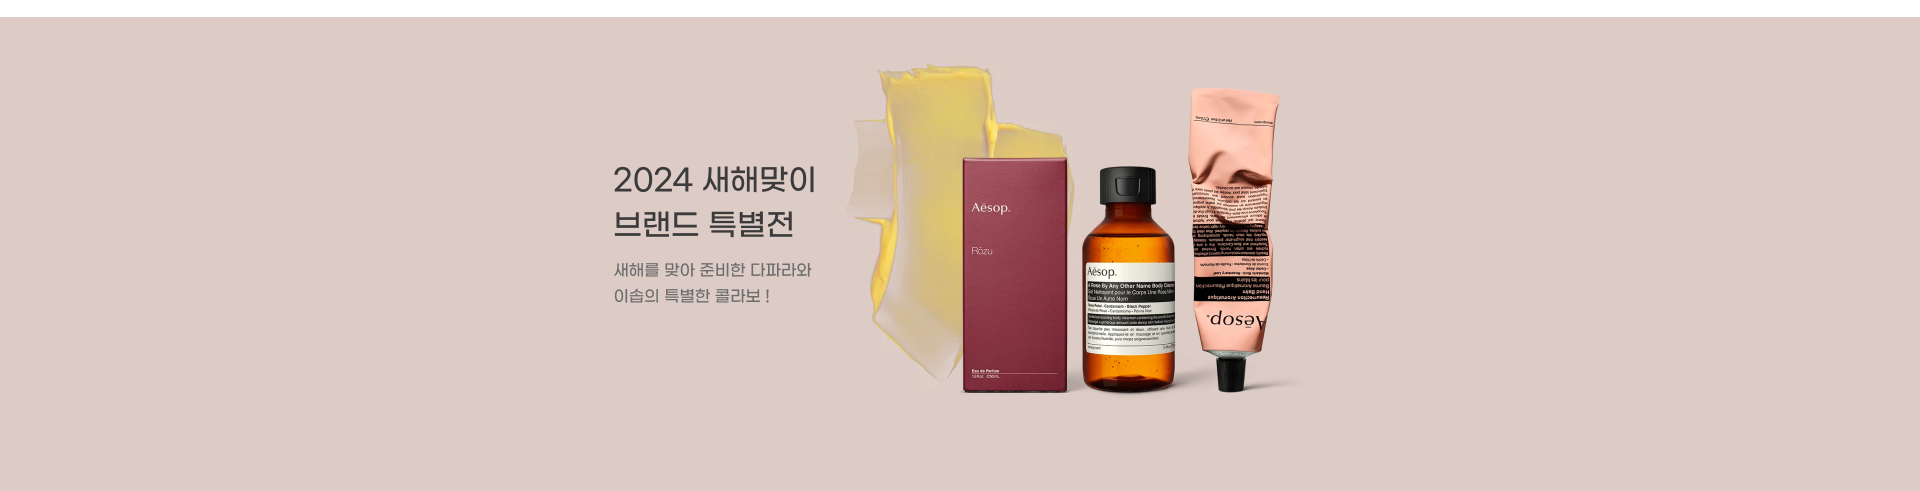
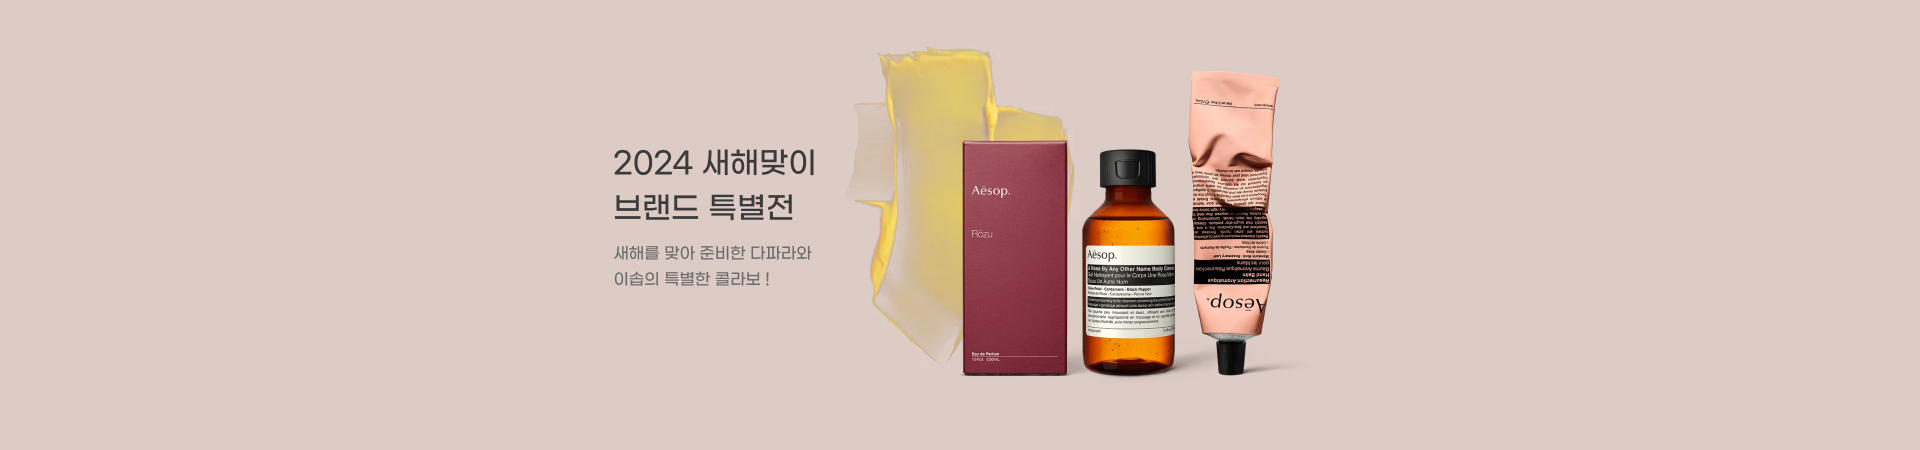
시맨틱 체크

diff --git a/css/index.css b/css/index.css
@@ -1,108 +1,16 @@
-@font-face {
-  font-family: "GmarketSansMedium";
-  src: url("../fonts/GmarketSansTTFMedium.ttf") format("woff");
-  font-weight: normal;
-  font-style: normal;
-}
-@font-face {
-  font-family: "GmarketSansBold";
-  src: url("../fonts/GmarketSansTTFBold.ttf") format("woff");
-  font-weight: normal;
-  font-style: normal;
-}
-@font-face {
-  font-family: "GmarketSansLight";
-  src: url("../fonts/GmarketSansTTFLight.ttf") format("woff");
-  font-weight: normal;
-  font-style: normal;
-}
-* {
-  box-sizing: border-box;
-  font-family: GmarketSansMedium;
-}
-
-body {
-  font-family: gmarketSansMedium;
-}
-
-a {
-  all: unset;
-  cursor: pointer;
-}
-
-.between {
-  display: flex;
-  justify-content: space-between;
-}
-
-.center {
-  display: flex;
-  align-items: center;
-}
-
-.width {
-  width: 100%;
-  max-width: 1280px;
-  margin: 0 auto;
-}
-
-.gap20 {
-  gap: 20px;
-}
-
-.flicking-camera {
-  display: flex;
-  align-items: center;
-}
-
-.panel {
-  width: 100%;
-  display: flex;
-  flex-direction: column;
-  align-items: center;
-  justify-content: space-between;
-}
-.panel a {
-  display: flex;
-  align-items: center;
-  justify-content: center;
-  -webkit-user-drag: none;
-}
-.panel img {
-  cursor: pointer;
-  -webkit-user-drag: none;
-}
-
-.flicking-pagination {
-  display: flex;
-  align-items: center;
-  justify-content: center;
-  gap: 10px;
-}
-
-.flicking-pagination-bullet {
-  width: 8px;
-  height: 8px;
-  border-radius: 100%;
-  background-color: #808080;
-}
-
-.flicking-pagination-bullet-active {
-  display: block;
-  width: 20px;
-  height: 8px;
-  border-radius: 10px;
-  background-color: #c43663;
-}
-
 .banner {
   width: 100%;
   max-width: 1920px;
   margin: 0 auto;
 }
 .banner .flicking-viewport {
-  width: 1280px;
+  width: 100%;
+  aspect-ratio: 128/50;
+  min-height: 500px;
   margin: 0 auto;
+}
+.banner .panel {
+  overflow: hidden;
 }
 .banner img {
   height: 100%;

diff --git a/css/header.css b/css/header.css
@@ -55,17 +55,12 @@ a {
   align-items: center;
 }
 
-.flicking-viewport {
-  width: 100%;
-  overflow: hidden;
-}
-
 .panel {
   width: 100%;
+  height: 100%;
   display: flex;
   flex-direction: column;
   align-items: center;
-  justify-content: space-between;
 }
 .panel a {
   display: flex;
@@ -74,31 +69,8 @@ a {
   -webkit-user-drag: none;
 }
 .panel img {
-  width: 100%;
   cursor: pointer;
   -webkit-user-drag: none;
-}
-
-.flicking-pagination {
-  display: flex;
-  align-items: center;
-  justify-content: center;
-  gap: 10px;
-}
-
-.flicking-pagination-bullet {
-  width: 8px;
-  height: 8px;
-  border-radius: 100%;
-  background-color: #808080;
-}
-
-.flicking-pagination-bullet-active {
-  display: block;
-  width: 20px;
-  height: 8px;
-  border-radius: 10px;
-  background-color: #c43663;
 }
 
 .material-symbols-outlined {

diff --git a/css/root.css b/css/root.css
@@ -57,10 +57,10 @@ a {
 
 .panel {
   width: 100%;
+  height: 100%;
   display: flex;
   flex-direction: column;
   align-items: center;
-  justify-content: space-between;
 }
 .panel a {
   display: flex;
@@ -71,26 +71,4 @@ a {
 .panel img {
   cursor: pointer;
   -webkit-user-drag: none;
-}
-
-.flicking-pagination {
-  display: flex;
-  align-items: center;
-  justify-content: center;
-  gap: 10px;
-}
-
-.flicking-pagination-bullet {
-  width: 8px;
-  height: 8px;
-  border-radius: 100%;
-  background-color: #808080;
-}
-
-.flicking-pagination-bullet-active {
-  display: block;
-  width: 20px;
-  height: 8px;
-  border-radius: 10px;
-  background-color: #c43663;
 }/*# sourceMappingURL=root.css.map */

diff --git a/css/root.scss b/css/root.scss
@@ -51,10 +51,11 @@ a {
 }
 .panel {
   width: 100%;
+  height: 100%;
   display: flex;
   flex-direction: column;
   align-items: center;
-  justify-content: space-between;
+
   a {
     display: flex;
     align-items: center;
@@ -65,23 +66,4 @@ a {
     cursor: pointer;
     -webkit-user-drag: none;
   }
-}
-.flicking-pagination {
-  display: flex;
-  align-items: center;
-  justify-content: center;
-  gap: 10px;
-}
-.flicking-pagination-bullet {
-  width: 8px;
-  height: 8px;
-  border-radius: 100%;
-  background-color: #808080;
-}
-.flicking-pagination-bullet-active {
-  display: block;
-  width: 20px;
-  height: 8px;
-  border-radius: 10px;
-  background-color: #c43663;
 }

diff --git a/css/index.scss b/css/index.scss
@@ -1,11 +1,16 @@
-@import "./root.scss";
+// @import "./root.scss";
 .banner {
   width: 100%;
   max-width: 1920px;
   margin: 0 auto;
   .flicking-viewport {
-    width: 1280px;
+    width: 100%;
+    aspect-ratio: 128/50;
+    min-height: 500px;
     margin: 0 auto;
+  }
+  .panel {
+    overflow: hidden;
   }
   img {
     height: 100%;
